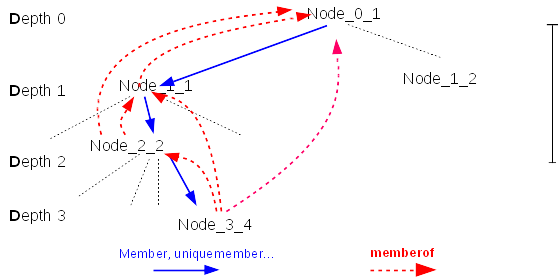
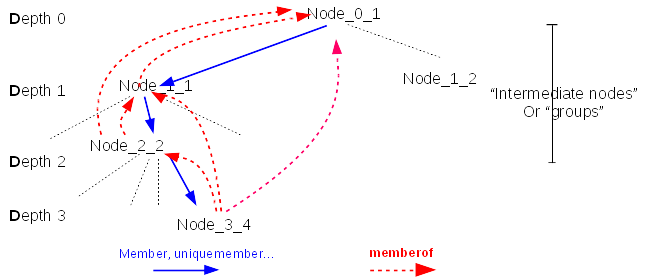
memberof-scalability (clarify tree/graph: 2)

diff --git a/docs/389ds/design/memberof-scalability.md b/docs/389ds/design/memberof-scalability.md
@@ -9,18 +9,18 @@ title: "MemberOf Scalability"
 
 ## Overview
 
-Membership attributes creates a directed graph that can contains cycles. Having cycles in membership makes almost no sense and add complexity. This is the reason why memberof plugin assums that the directed graph is actually an **acyclic tree** and enforce during evaluation of the tree that there is no cycle.
+Membership attributes in LDAP entries create a directed graph of entries that can contain cycles. Having cycles in membership makes almost no sense and add complexity. This is the reason why memberof plugin assums that the directed graph is actually an **acyclic directed graph** and enforce during evaluation of the graph that there is no cycle.
 
-The nodes of the tree are directed by membership attributes (member, uniquemember, memberuser...). MemberOf plugin manages the values of LDAP attribute **memberOf** into the tree. This attribute creates an other tree with direct edges from a node to all the nodes it is member of. 
+The nodes of the graph are directed by membership attributes (member, uniquemember, memberuser...). MemberOf plugin manages the values of LDAP attribute **memberOf** into the graph. This attribute creates an other graph with direct edges from a node to all the nodes it is member of. 
 
-![acyclic tree](../../../images/memberof_acyclic_tree.png "acyclic tree")
+![acyclic directed graph](../../../images/memberof_acyclic_tree.png "acyclic directed graph")
 
-The nodes linked to other node(s) (with blue arrow) are called **groups or intermediate nodes** (e.g. node_0_1, node_1_1, node_2_2). The nodes linked to no other node (with blue arrow) are called **leafs**.
+The nodes origin of a link to other node(s) (with blue arrow) are called **groups or intermediate nodes** (e.g. node_0_1, node_1_1, node_2_2). The nodes linked to no other node (with blue arrow) are called **leafs**.
 
 When updating a group, MemberOf plugin needs to update the *memberof* attribute of several nodes. To do so, it does two actions:
 
--   Lookup **down** in membership tree to determine the list of entries (leafs or intermediate nodes) impacted by the operation
--   For each impacted entry (nodes or leafs), lookups **up** in the tree to determine which groups the entry belongs to, and eventually update the entry (**fixup**)
+-   Lookup **down** in membership graph to determine the list of nodes (leafs or groups) impacted by the operation
+-   For each impacted nodes, lookups **up** in the graph to determine which groups the entry belongs to, and eventually update the entry (**fixup**)
 
 Those two actions are necessary but can be expensive in terms of:
 
@@ -41,19 +41,19 @@ An administrator needs to provision many entries (leafs or groups) within a fixe
 
 ### Simplifications
 
-The graph of membership can be very complex. For simplification, this document will evaluate the impact of membership update on limited types of trees with same leaf depth:
+The graph of membership can be very complex. For simplification, this document will evaluate the impact of membership update on limited types of graphs with same leaf depth:
 
 - **Type 1** <a name="Type 1"></a>: Tree with one uniq path root to each leaf
 
-![Membership tree](../../../images/memberof_image1.png "uniq path to leaf")
+![Membership graph](../../../images/memberof_image1.png "uniq path to leaf")
 
 - **Type 2** <a name="Type 2"></a>Tree with multiple paths root to some of the leafs
 
-![Membership tree](../../../images/memberof_type_multiple_path_to_leaf.png "multiple paths to leaf")
+![Membership graph](../../../images/memberof_type_multiple_path_to_leaf.png "multiple paths to leaf")
 
-- **Type 3** <a name="Type 3"></a>Tree with multiple paths to intermediate nodes
+- **Type 3** <a name="Type 3"></a>Tree with multiple paths to intermediate nodes (groups)
 
-![Membership tree](../../../images/memberof_type_multiple_path_to_node.png "multiple paths to nodes")
+![Membership graph](../../../images/memberof_type_multiple_path_to_node.png "multiple paths to groups")
 
 ### Cost of memberof update
 
@@ -63,48 +63,48 @@ The initial thought that the update of the entry (fixup) was the main responsibl
 
 So in the rest of the document the **cost** will be expressed in terms of **internal searches**.
 
-![Membership tree](../../../images/memberof_image1.png "Cost of a node update")
+![Membership graph](../../../images/memberof_image1.png "Cost of a node update")
 
-The figure above shows a membership tree. At the bottom of the tree **leafs** are typically **users**. Those users are directly member of a *leaf groups* of **Depth 3** (i.e. *Grp3_A*), for example *Grp 3_A* is *'Devel Kernel Group'*. Then this group is member of **Depth 2** group (i.e. *Grp 2_A*) like *'Framework Devel Group'*. This group is member of **Depth 1** group (i.e. *Grp 1_A*) like *'Engineering'*. 
+The figure above shows a membership graph. At the bottom of the graph **leafs** are typically **users**. Those users are directly member of a *leaf groups* of **Depth 3** (i.e. *Grp3_A*), for example *Grp 3_A* is *'Devel Kernel Group'*. Then this group is member of **Depth 2** group (i.e. *Grp 2_A*) like *'Framework Devel Group'*. This group is member of **Depth 1** group (i.e. *Grp 1_A*) like *'Engineering'*. 
 
-- Let the tree composed of **nodes**. 
+- Let the graph composed of **nodes**. 
 - The **parents** of a node are the nodes with a membership link to the node. 
 - The set of nodes that are **parents** are called **groups or intermediate nodes**
 - A **leaf** is a node that is not a parent
-- Let **D** the depth of a given node in the membership tree
+- Let **D** the depth of a given node in the membership graph
 - Let **P_down(x)** the number of paths from root to nodes at the depth x (i.e. **paths with length = x**)
 - Let **L** the maximum lenght of all paths from root to nodes and leafs (i.e. Max Depth + 1)
 - Let **plg** is the number of plugins that triggers one internal search when a entry is updated (e.g. mep). It is >= 1.
 
 #### Look down the impacted members
 
-When a group is updated, the txn postop callback searches for all entries being direct and indirect members of that group. This is done by a **single** internal search of each node (leaf or intermediate node) **each** time the entry is found in the membership tree. The purpose of this look down is to build a list of impacted members that later will be fixup.
+When a group is updated, the txn postop callback searches for all entries being direct and indirect members of that group. This is done by a **single** internal search of each node (leaf or intermediate node) **each** time the entry is found in the membership graph. The purpose of this look down is to build a list of impacted members that later will be fixup.
 
     SRCH base="<node_dn>" scope=0 filter="(|(objectclass=*)(objectclass=ldapsubentry))" attrs="attr_1 ... attr_N"
     attr_1,...,attr_N: are membership attributes (defined in "cn=MemberOf Plugin,cn=plugins,cn=config")
 
 This internal base search is very rapid at the condition *node_dn* **remains in the entry cache**.
 
-The cost of the look down is C = sum from l=1 to l=L of P_down(l). For example with *leaf groups* (node of Depth 3) having **100** leafs:
+The cost of the look down is C = sum from l=1 to l=L of P_down(l). For example with group of Depth 3 having **100** leafs:
 
-- tree [type 1](#Type 1): **608** - 600 paths root to each leafs + 8 paths root to intermediate nodes
-- tree [type 2](#Type 2): **608** - 600 paths root to each leafs + 8 paths root to intermediate nodes
-- tree [type 3](#Type 3): **709** - the 101 additional paths are due to Grp_3_C (and its leafs) that is found twice
+- graph [type 1](#Type 1): **608** - 600 paths root to each leafs + 8 paths root to intermediate nodes
+- graph [type 2](#Type 2): **608** - 600 paths root to each leafs + 8 paths root to intermediate nodes
+- graph [type 3](#Type 3): **709** - the 101 additional paths are due to Grp_3_C (and its leafs) that is found twice
 
-The lookup is quite efficient (it retrieves/process all the membership attributes in a single search) but it can be improved:
+The search is quite efficient (it retrieves/process all the membership attributes in a single search) but it can be improved:
 
-An entry (node or leaf) may appears several times in the tree (and triggers several int_search). The possibilities for finding entries several times are:
+An entry (group or leaf) can appear several times in the graph as there can be multiple paths from root to the entry. It time is is found it triggers several int_search. The possibilities for finding entries several times are:
 
-- several paths conduct to the same entry (node or leaf)
+- several paths conduct to the same entry (groups or leaf)
 - being listed in several membership attribute
 
-The ticket [48861](https://fedorahosted.org/389/ticket/48861) was opened for this improvement. It should make sure that an entry is **search once** during *Look down* (preferably) or **Fixed once** during *Look up*. This improvement has no impact if entries appears only once in the tree.
+The ticket [48861](https://fedorahosted.org/389/ticket/48861) was opened for this improvement. It should make sure that an entry is **search once** during *Look down* (preferably) or **Fixed once** during *Look up*. This improvement has no impact if entries appears only once in the graph.
 
 The expected cost of look down with a fix for [48861](https://fedorahosted.org/389/ticket/48861), for example with *leaf groups* (node of Depth 3) having **100** leafs
 
-- tree [type 1](#Type 1): **C = 608**: all the paths root to nodes/leafs are uniq
-- tree [type 2](#Type 2): **C - 2 = 606**: there are two paths root to LeafN and root to LeafM
-- tree [type 3](#Type 3): **C - 101 = 608**: there are two paths root to Grp_3_C and root to Grp_3_C s leafs
+- graph [type 1](#Type 1): **C = 608**: all the paths root to nodes/leafs are uniq
+- graph [type 2](#Type 2): **C - 2 = 606**: there are two paths root to LeafN and root to LeafM
+- graph [type 3](#Type 3): **C - 101 = 608**: there are two paths root to Grp_3_C and root to Grp_3_C s leafs
 
 #### Look up group membership of impacted members
 
@@ -125,18 +125,18 @@ Having a *list of impacted nodes* (possibly containing *duplicates*), for each o
 For example with *leaf groups* (node of Depth 3) having **100** leafs:
 
 
-- tree [type 1](#Type 1):  **3030** internal searches
-- tree [type 2](#Type 2): **3036** internal searches
-- tree [type 3](#Type 3): **3736** internal searches
+- graph [type 1](#Type 1):  **3030** internal searches
+- graph [type 2](#Type 2): **3036** internal searches
+- graph [type 3](#Type 3): **3736** internal searches
 
 
-Making sure that the *list of impacted nodes* does not contain duplicate ([48861](https://fedorahosted.org/389/ticket/48861)) has a significant impact during *look up*. In [type 3 tree](#Type 3), each member of Grp_3_C have 2 paths back to root so the look up cost of each of them will be divided by 2. **The more paths it exists to a node, the more expensive is the node**.
+Making sure that the *list of impacted nodes* does not contain duplicate ([48861](https://fedorahosted.org/389/ticket/48861)) has a significant impact during *look up*. In [type 3 graph](#Type 3), each member of Grp_3_C have 2 paths back to root so the look up cost of each of them will be divided by 2. **The more paths it exists to a node, the more expensive is the node**.
 
 ### Improvements
 
 #### Prevent duplicate 48861
 
-When updating membership attributes of a group, a direct or indirect impacted member of that group can be found several times. The ticket [48861](https://fedorahosted.org/389/ticket/48861) will prevent that an impacted member is listed/fixed several times. A first [patch](https://fedorahosted.org/389/attachment/ticket/48861/0001-Ticket-48861-Memberof-plugins-can-update-several-tim.patch), caching in an hash table the already fixed nodes, divides by **2** the duration of provisioning of a tree. The tree being creates with [create_test_data.py](https://github.com/freeipa/freeipa-tools/blob/master/create-test-data.py)
+When updating membership attributes of a group, a direct or indirect impacted member of that group can be found several times. The ticket [48861](https://fedorahosted.org/389/ticket/48861) will prevent that an impacted member is listed/fixed several times. A first [patch](https://fedorahosted.org/389/attachment/ticket/48861/0001-Ticket-48861-Memberof-plugins-can-update-several-tim.patch), caching in an hash table the already fixed nodes, divides by **2** the duration of provisioning of a graph. The graph being creates with [create_test_data.py](https://github.com/freeipa/freeipa-tools/blob/master/create-test-data.py)
 
 
 #### caching of groups 48856
@@ -154,20 +154,20 @@ In the three following figures, the number in red (close to * <node_dn> *) is th
 
 Type 1 
 
-![Membership tree](../../../images/memberof_type_1_cost_of_groups.png "Type 1: Cost of groups")
+![Membership graph](../../../images/memberof_type_1_cost_of_groups.png "Type 1: Cost of groups")
 
 Type 2 
 
-![Membership tree](../../../images/memberof_type_2_cost_of_groups.png "Type 2: Cost of groups")
+![Membership graph](../../../images/memberof_type_2_cost_of_groups.png "Type 2: Cost of groups")
 
 Type 3
 
-![Membership tree](../../../images/memberof_type_3_cost_of_groups.png "Type 3: Cost of groups")
+![Membership graph](../../../images/memberof_type_3_cost_of_groups.png "Type 3: Cost of groups")
 
 
 In conclusion:
 
-- The number of searches with *filter="(\|(attr_1=leaf_n)(attr_N=leaf_n))"* remains low (1 or 2) in all types of trees 
+- The number of searches with *filter="(\|(attr_1=leaf_n)(attr_N=leaf_n))"* remains low (1 or 2) in all types of graph 
 - The number of searches with *filter="(\|(attr_1=group_n)(attr_N=group_n))"* is very high compare to the leaf
 - The number of searches with *filter="(\|(attr_1=group_n)(attr_N=group_n))"* increases rapidly if members (direct and indirect) belong to several groups
 - The number of searches with *filter="(\|(attr_1=group_n)(attr_N=group_n))"* increases as moving up in the three
